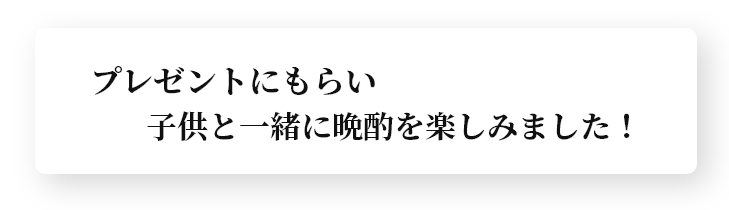
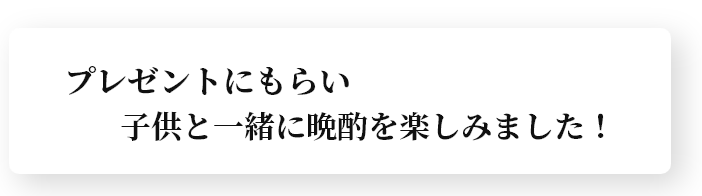
[update] パーフェクトピクセルによる位置調整（ベネフィットセクション）

Changed region(s): [[0.1795, 0.5204, 0.8675, 0.7347], [0.0897, 0.3061, 0.5385, 0.4898], [0.0897, 0.8265, 0.9573, 0.8571]]

diff --git a/assets/stylesheet.css b/assets/stylesheet.css
@@ -338,7 +338,7 @@ header {
 
 #benefit_section {
   position: relative;
-  padding-bottom: 180px;
+  padding-bottom: 140px;
 }
 
 .benefit_container {
@@ -365,17 +365,18 @@ header {
 .benefit_top_section {
   width: 100%;
   height: 100%;
-  margin-bottom: 136px;
+  margin-bottom: 10.5%;
 }
 
 .benefit_title {
   margin-left: 24.9%;
+  margin-bottom: 1%;
 }
 
 .benefit_middle_bg {
   background-image: url("./img/splash.png");
   background-repeat: no-repeat;
-  background-position: 5% 80%;
+  background-position: -5% 88%;
 }
 
 .benefit_middle_section {
@@ -391,22 +392,23 @@ header {
 
 .voice1 {
   position: static;
+  margin-left: -2%;
 }
 
 .voice2 {
   position: static;
-  margin-left: 9%;
+  margin-left: 7%;
 }
 
 .voice3 {
   position: static;
-  margin-top: 16%;
-  margin-left: 9%;
+  margin-top: 25%;
+  margin-left: 10%;
 }
 
 .voice4 {
   position: static;
-  margin-top: 6%;
+  margin-top: -1%;
   margin-right: -10%;
   margin-left: 36.5%;
 }
@@ -782,6 +784,10 @@ footer {
     display: none;
   }
 
+  .sp_benefit_fruits {
+    display: none;
+  }
+
   .sp_product_beer {
     display: none;
   }
@@ -996,7 +1002,7 @@ footer {
   }
 
   #benefit_section {
-    padding-bottom: 100px;
+    padding-bottom: 0px;
   }
 
   .benefit_container {
@@ -1015,8 +1021,8 @@ footer {
   }
 
   .benefit_middle_bg {
-    background-position: 50% 60%;
-    background-size: 140% 60%;
+    background-position: 50% 65%;
+    background-size: 120% 60%;
   }
 
   .benefit_middle_section {
@@ -1033,22 +1039,22 @@ footer {
   }
 
   .benefit_title {
-    margin: 0 8.3% 0 8.3%;
-    width: 316px;
-    height: 118px;
+    margin: 1% 5% 0 5%;
+    width: 80%;
   }
 
   .benefit_fruits {
-    width: 148px;
-    height: 172px;
-    margin-top: -70%;
+    display: none;
+  }
+
+  .sp_benefit_fruits {
+    margin-top: -30%;
     margin-left: 70%;
-    margin-bottom: 50%;
   }
 
   .cheers {
     width: 100%;
-    margin: 10% 0 0 0;
+    margin: 40% 0 0 0;
   }
 
   .cheers img {
@@ -1060,27 +1066,22 @@ footer {
   }
 
   .voice1 {
-    width: 186px;
-    height: 86px;
+    width: 50%;
   }
 
   .voice2 {
-    width: 185px;
-    height: 86px;
-    margin-bottom: 251px;
-    margin-left: 57%;
+    width: 50%;
+    margin-bottom: 55%;
+    margin-left: 54%;
+    margin-top: -8%;
   }
 
   .voice3 {
-    width: 372px;
-    height: 86px;
-    margin: 0 auto 23px 0;
+    margin: 0 0 -3% -2%;
   }
 
   .voice4 {
-    width: 371px;
-    height: 85px;
-    margin: 0 0 0 auto;
+    margin: 0 -3% 0 0;
   }
 
   .limited_middle_section_second {

diff --git a/index.html b/index.html
@@ -100,6 +100,7 @@
       <div class="benefit_middle_bg">
         <div class="benefit_container_top">
           <div class="benefit_top_section">
+            <img class="sp_benefit_fruits" src="./assets/img/sp_benefit_fruits.png" width="130" height="157" alt="オレンジとスターフルーツ">
             <img class="benefit_title" src="./assets/img/benefit_title.svg" width="547" height="205" alt="父の日に味わう贅沢な時間">
             <img class="benefit_fruits" src="./assets/img/benefit_fruits.png" width="240" height="280" alt="オレンジとスターフルーツ">
           </div>
@@ -116,7 +117,7 @@
               <img src="./assets/img/voice2.png" width="438" height="229" alt="また買いたいと思いました！">
             </div>
             <div class="voice3">
-              <img src="./assets/img/voice3.png" width="729" height="210" alt="プレゼントにもらい子供と一緒に晩酌を楽しみました！">
+              <img src="./assets/img/voice3.png" width="702" height="196" alt="プレゼントにもらい子供と一緒に晩酌を楽しみました！">
             </div>
             <div class="voice4">
               <img src="./assets/img/voice4.png" width="726" height="221" alt="普段飲むビールとは違って、飲みやすく特別感がありました！">
